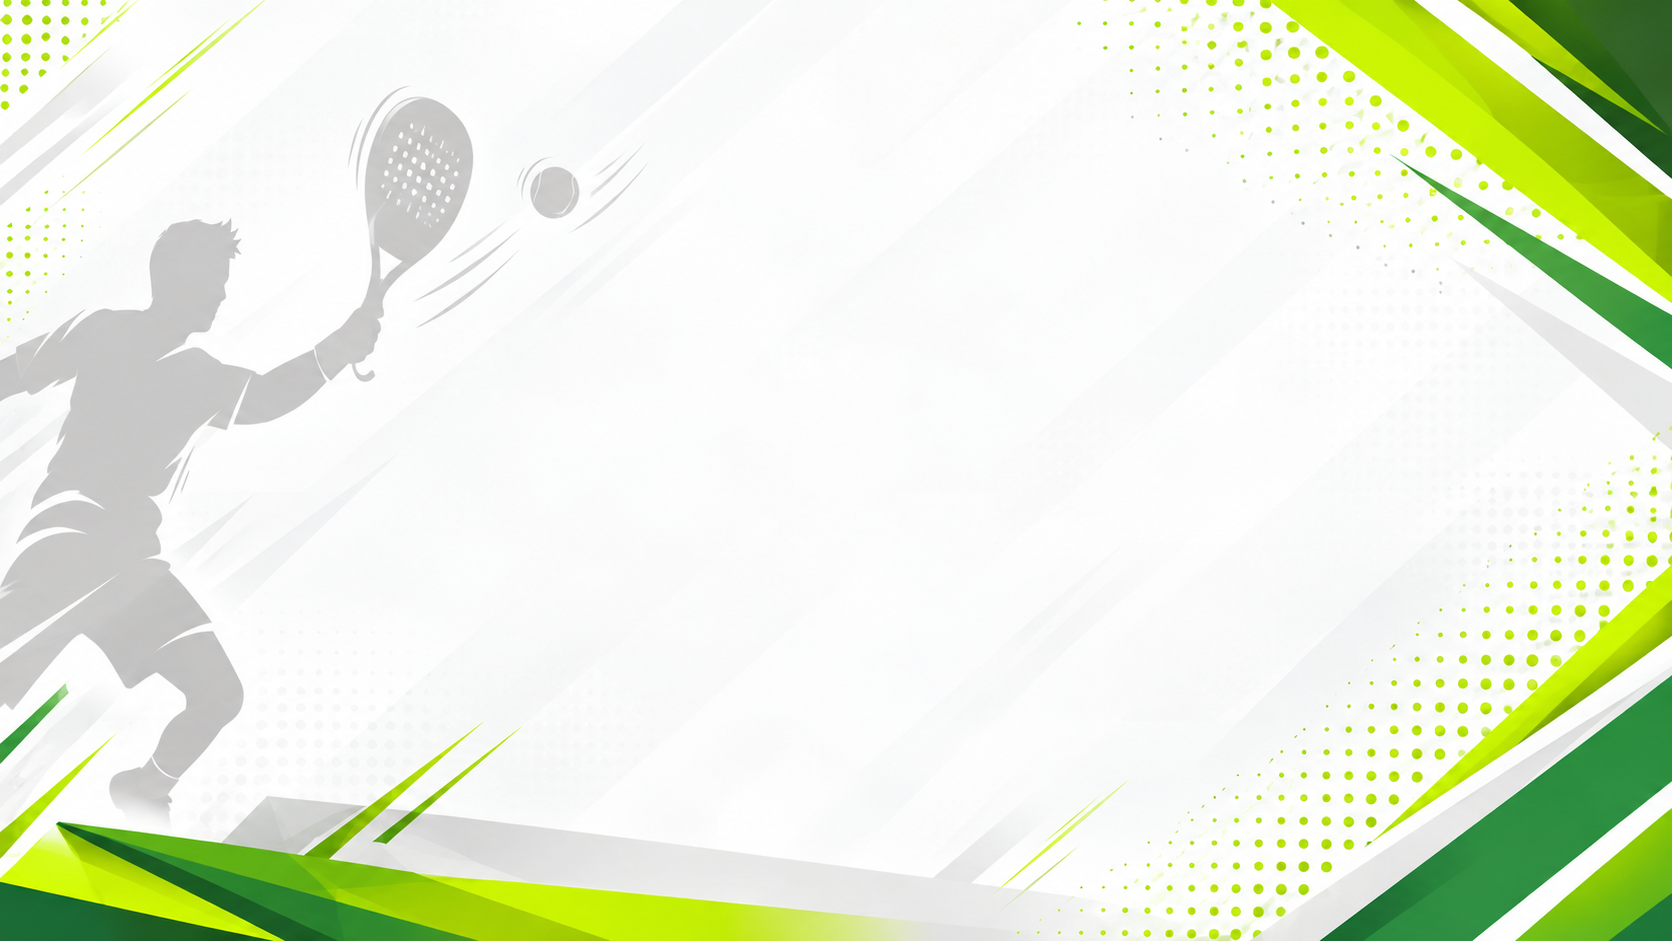
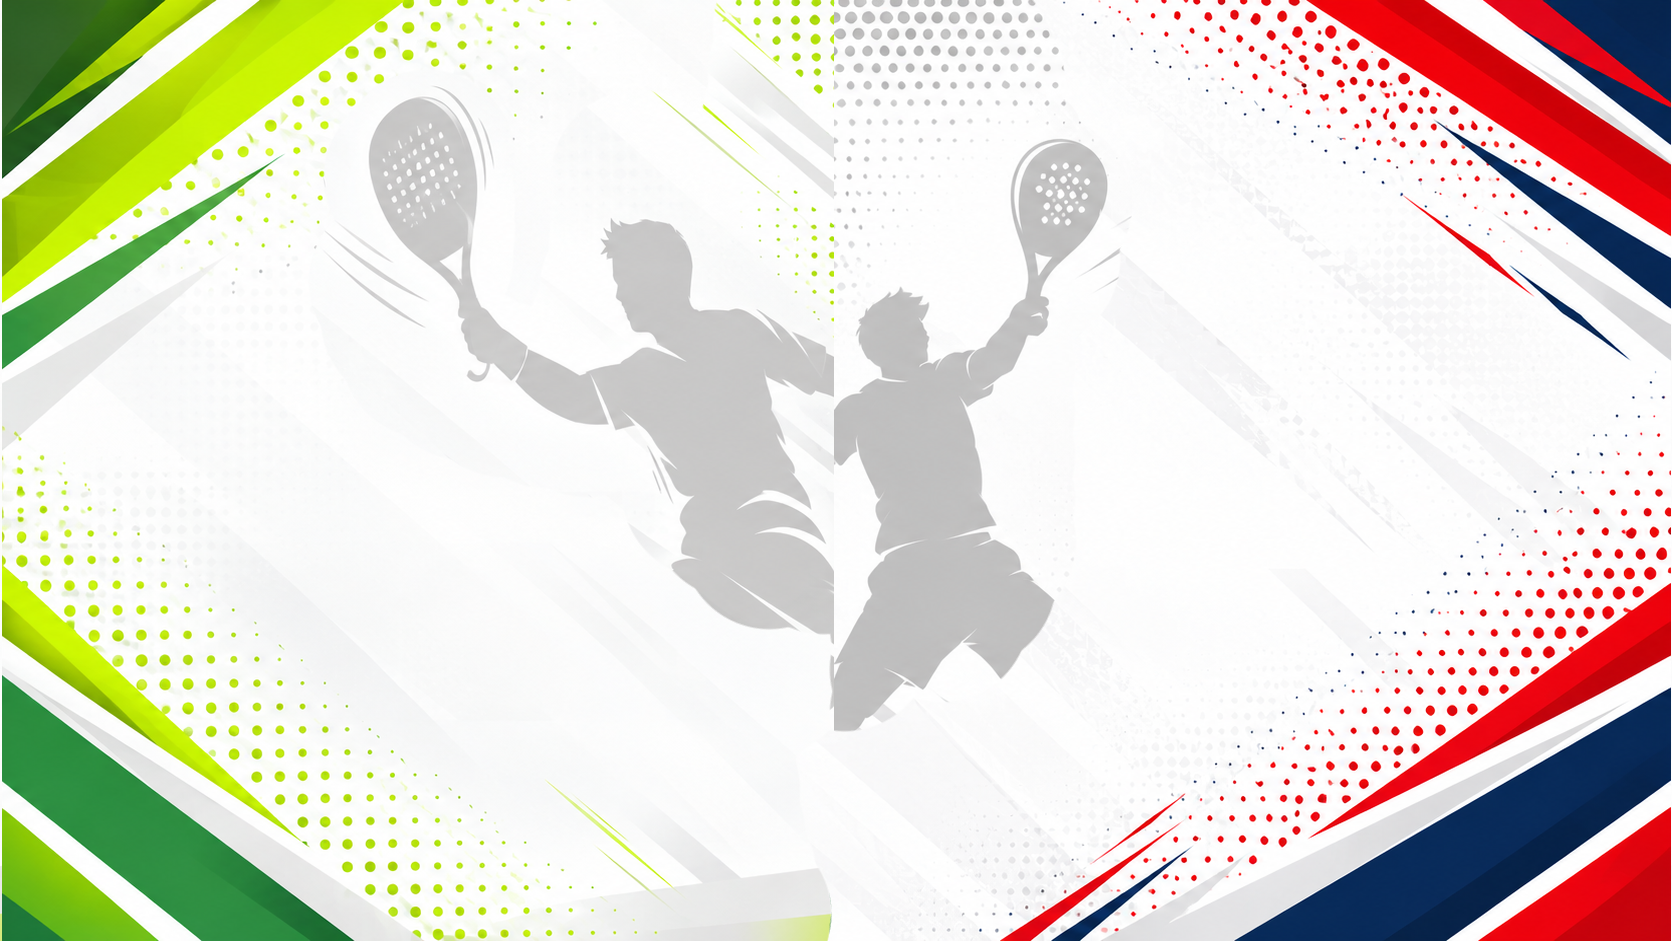
left right - null allowed

diff --git a/src/components/layout/header.jsx b/src/components/layout/header.jsx
@@ -19,36 +19,42 @@ export const Header = () => {
       }}
     >
       <div className="flex-1 flex justify-start items-center overflow-visible">
-        <img
-          className="p-0"
-          src={images.leftLogo}
-          alt=""
-          style={SIDE_LOGO_STYLE}
-        />
+        {images.leftLogo && (
+          <img
+            className="p-0"
+            src={images.leftLogo}
+            alt=""
+            style={SIDE_LOGO_STYLE}
+          />
+        )}
       </div>
 
       <div className="flex-[2] flex justify-center items-center overflow-visible">
-        <img
-          className="p-0"
-          src={images.cupLogo}
-          alt=""
-          style={{
-            objectFit: "contain",
-            height: "var(--display-logo-cup-h)",
-            width: "auto",
-            maxWidth: "none",
-            flexShrink: 0,
-          }}
-        />
+        {images.cupLogo && (
+          <img
+            className="p-0"
+            src={images.cupLogo}
+            alt=""
+            style={{
+              objectFit: "contain",
+              height: "var(--display-logo-cup-h)",
+              width: "auto",
+              maxWidth: "none",
+              flexShrink: 0,
+            }}
+          />
+        )}
       </div>
 
       <div className="flex-1 flex justify-end items-center overflow-visible">
-        <img
-          className="p-0"
-          src={images.rightLogo}
-          alt=""
-          style={SIDE_LOGO_STYLE}
-        />
+        {images.rightLogo && (
+          <img
+            className="p-0"
+            src={images.rightLogo}
+            alt=""
+            style={SIDE_LOGO_STYLE}
+          />
+        )}
       </div>
     </div>
   );

diff --git a/src/const/tournamentImageConfig.js b/src/const/tournamentImageConfig.js
@@ -201,9 +201,9 @@ export const TOURNAMENT_IMAGES = {
     sponsor2: "hohSponsor2",
   },
   "dw-padel": {
-    leftLogo: "dwPadelLeft",
-    cupLogo: "dwPadelCup",
-    rightLogo: "dwPadelRight",
+    leftLogo: null,
+    cupLogo: "dwPadelCup2",
+    rightLogo: null,
     bg: "dwPadelBg",
     sponsor1: "dwPadelSponsor",
     sponsor2: "dwPadelSponsor2",
@@ -327,7 +327,7 @@ export function getImagesForTournament(tournamentId, allImages) {
   const merged = { ...DEFAULT_IMAGES, ...config };
 
   const defaultImg = (key) => {
-    if (config[key] === null) return null;
+    if (config[key] === null || config[key] === "null") return null;
     return allImages[merged[key]] || allImages[DEFAULT_IMAGES[key]];
   };
 

diff --git a/src/assets/images/ImageConstants.js b/src/assets/images/ImageConstants.js
@@ -160,6 +160,7 @@ import dwPadelBg from "./dw-padel-bg.png";
 import dwPadelRight from "./fix/dw-padel-right.png";
 import dwPadelLeft from "./fix/dwleft.png";
 import dwPadelCup from "./fix/dw-padel-center.png";
+import dwPadelCup2 from "./fix/dw-padel-center2.png"; 
 import dwPadelSponsor from "./fix/dw-padel-sponsor.png";
 import dwPadelSponsor2 from "./fix/dw-padel-sponsor2.png";
 
@@ -287,6 +288,7 @@ export const ALL_IMAGES = {
   hohSponsor2,
   dwPadelLeft,
   dwPadelCup,
+  dwPadelCup2,
   dwPadelRight,
   dwPadelBg,
   dwPadelSponsor,
